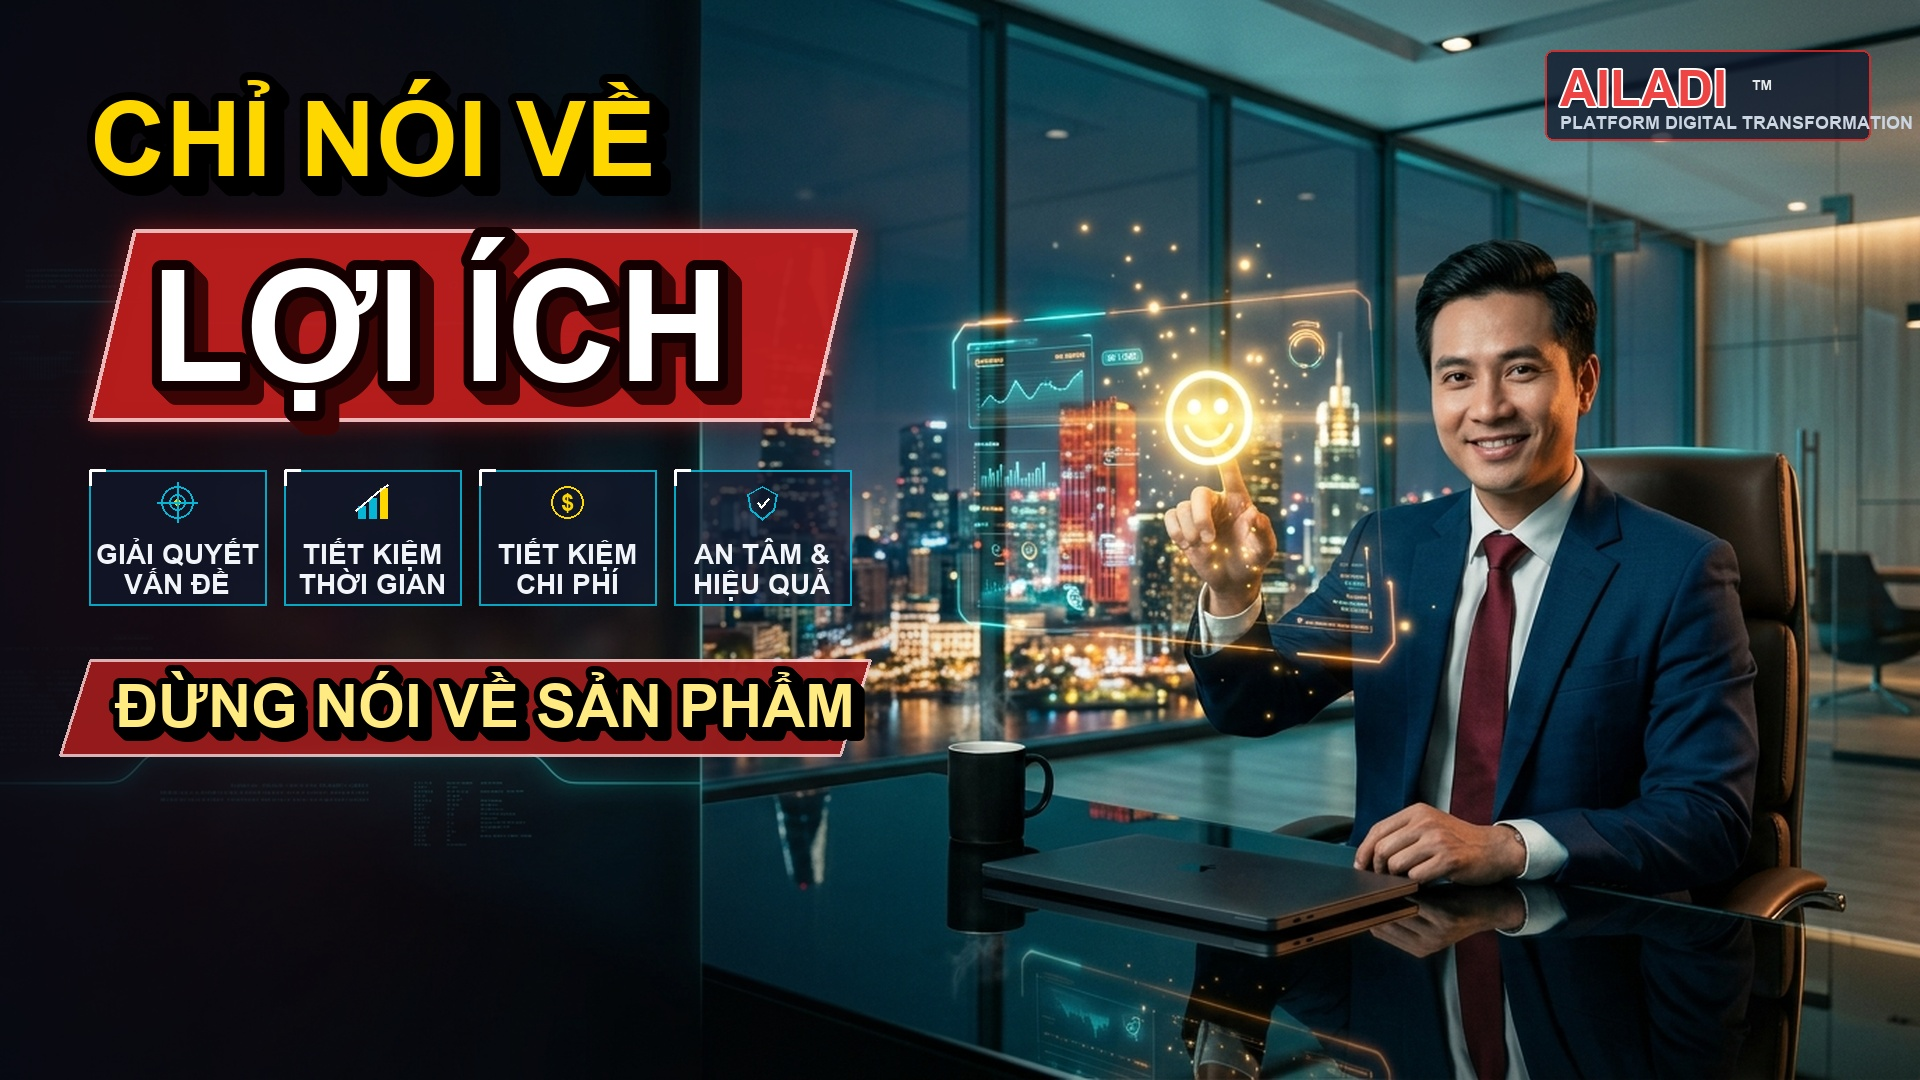
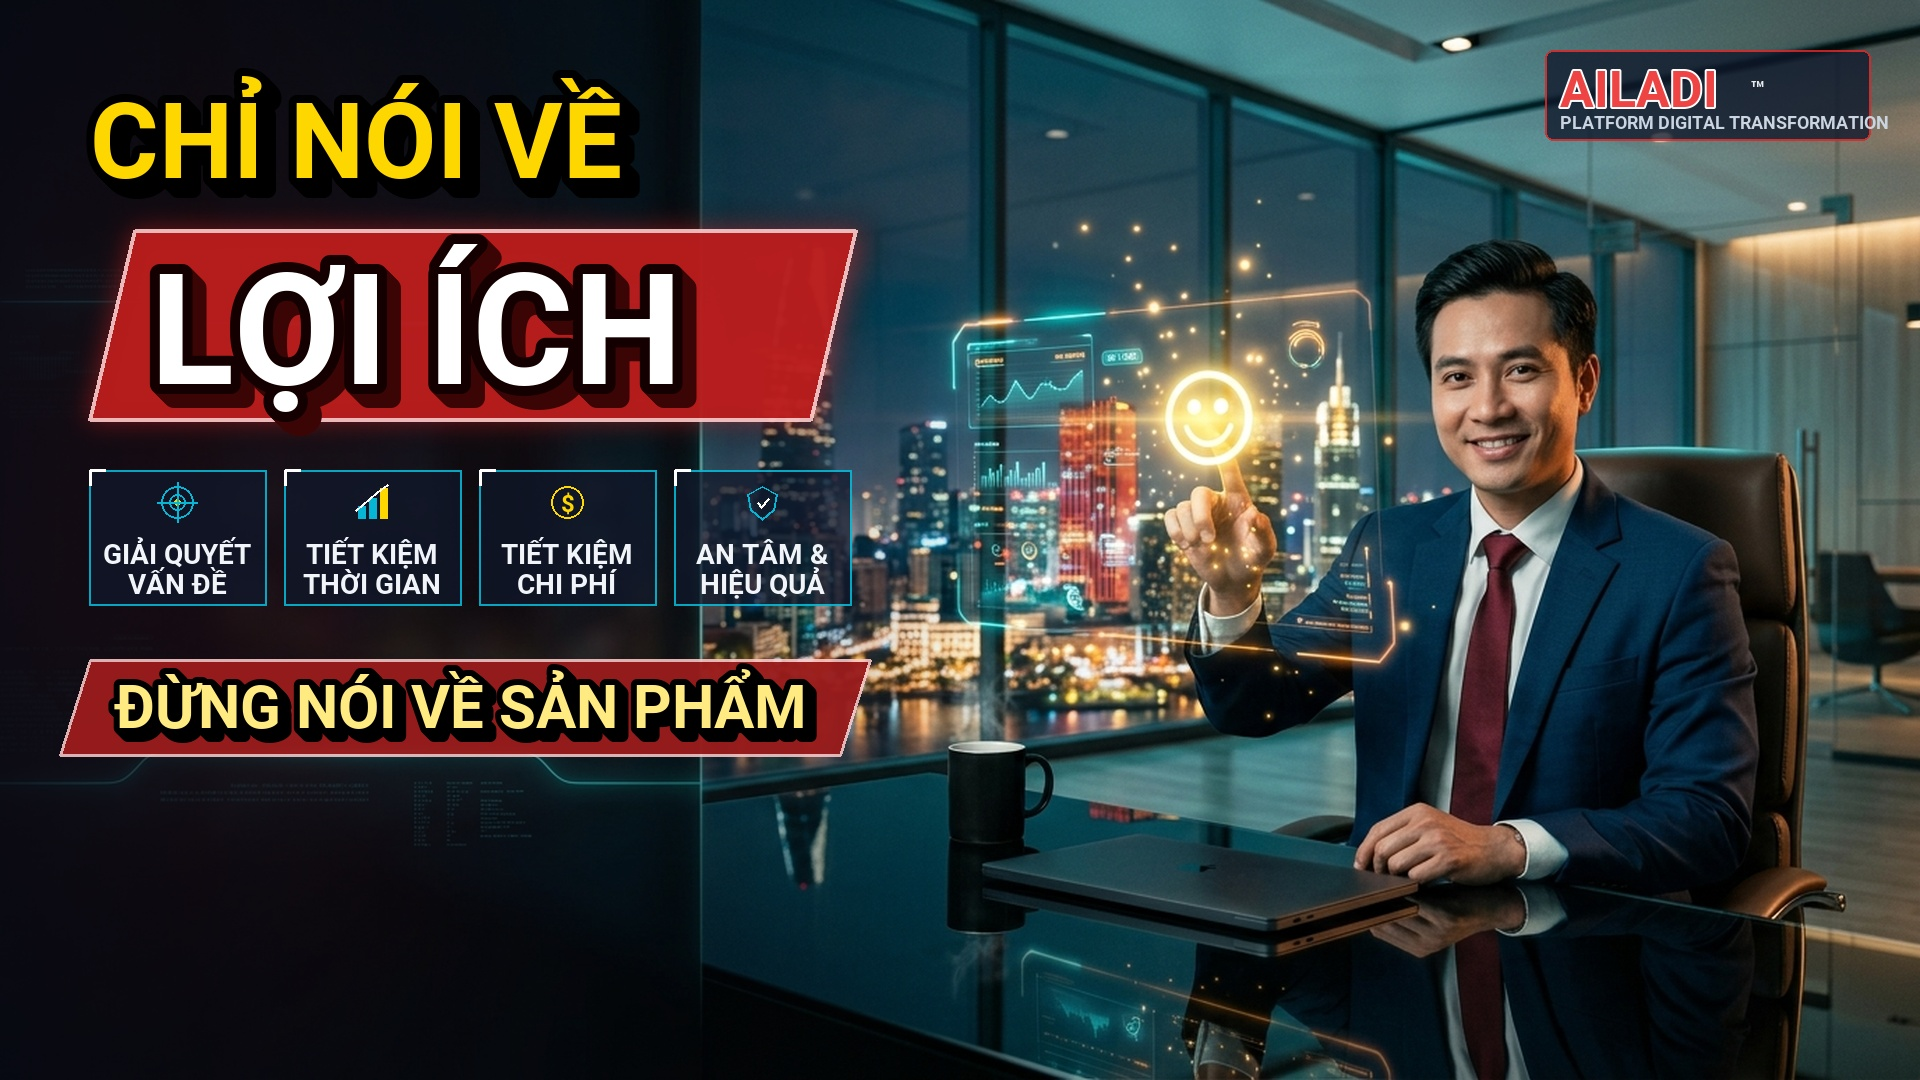
fix: dam bao Roboto-Bold.ttf luon duoc ap dung chuan tren ca Linux GitHub Actions va Windows

diff --git a/generate_executive_thumbnail.py b/generate_executive_thumbnail.py
@@ -18,10 +18,13 @@ if sys.platform.startswith('win'):
 
 def get_best_font(size, bold=True):
     """Tìm font tiếng Việt Unicode chuẩn đẹp nhất trên hệ thống"""
+    bundled_font = os.path.join(os.path.dirname(os.path.abspath(__file__)), "Roboto-Bold.ttf")
     font_candidates = [
+        bundled_font,
         r"C:\Windows\Fonts\arialbd.ttf" if bold else r"C:\Windows\Fonts\arial.ttf",
         r"C:\Windows\Fonts\segoeuib.ttf" if bold else r"C:\Windows\Fonts\segoeui.ttf",
-        os.path.join(os.path.dirname(__file__), "..", "Roboto-Bold.ttf"),
+        "/usr/share/fonts/truetype/dejavu/DejaVuSans-Bold.ttf",
+        "/usr/share/fonts/truetype/liberation/LiberationSans-Bold.ttf",
         r"C:\Windows\Fonts\tahomabd.ttf",
     ]
     for p in font_candidates:
